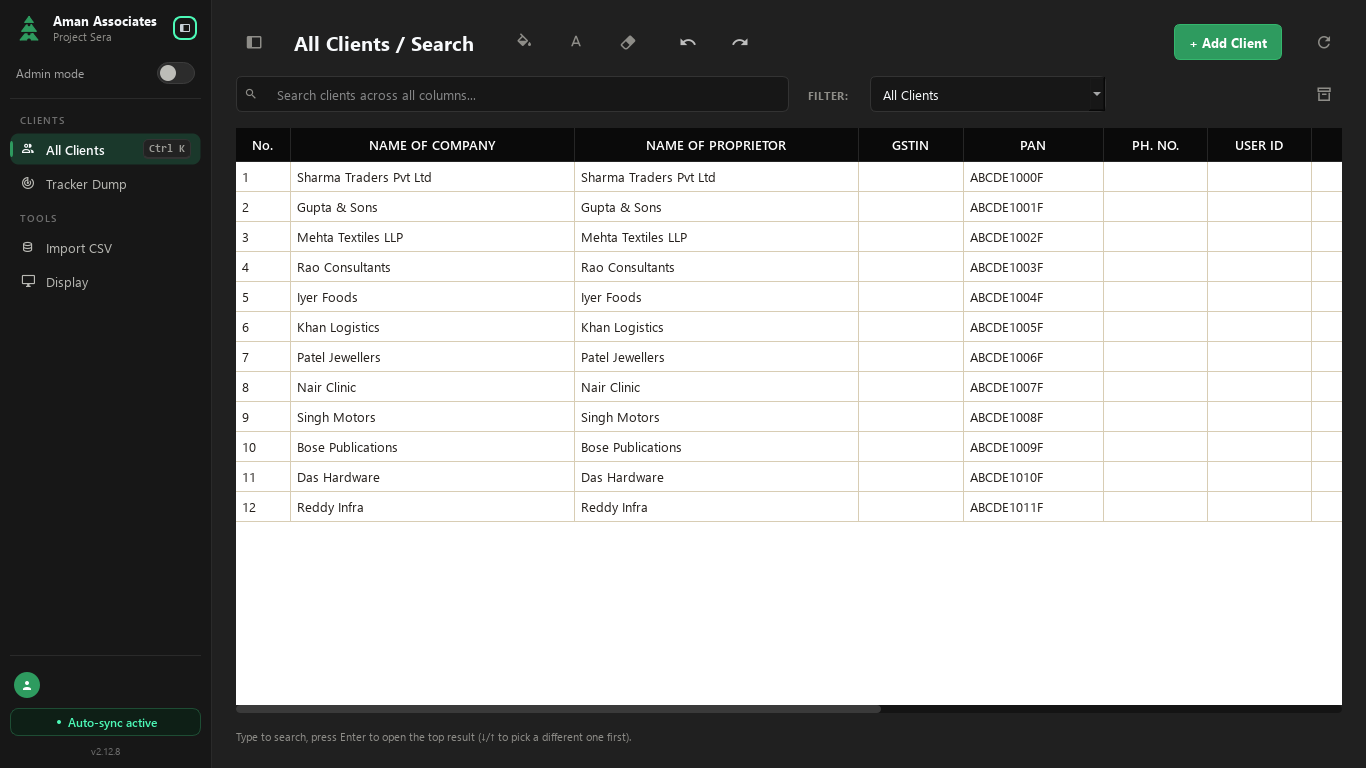
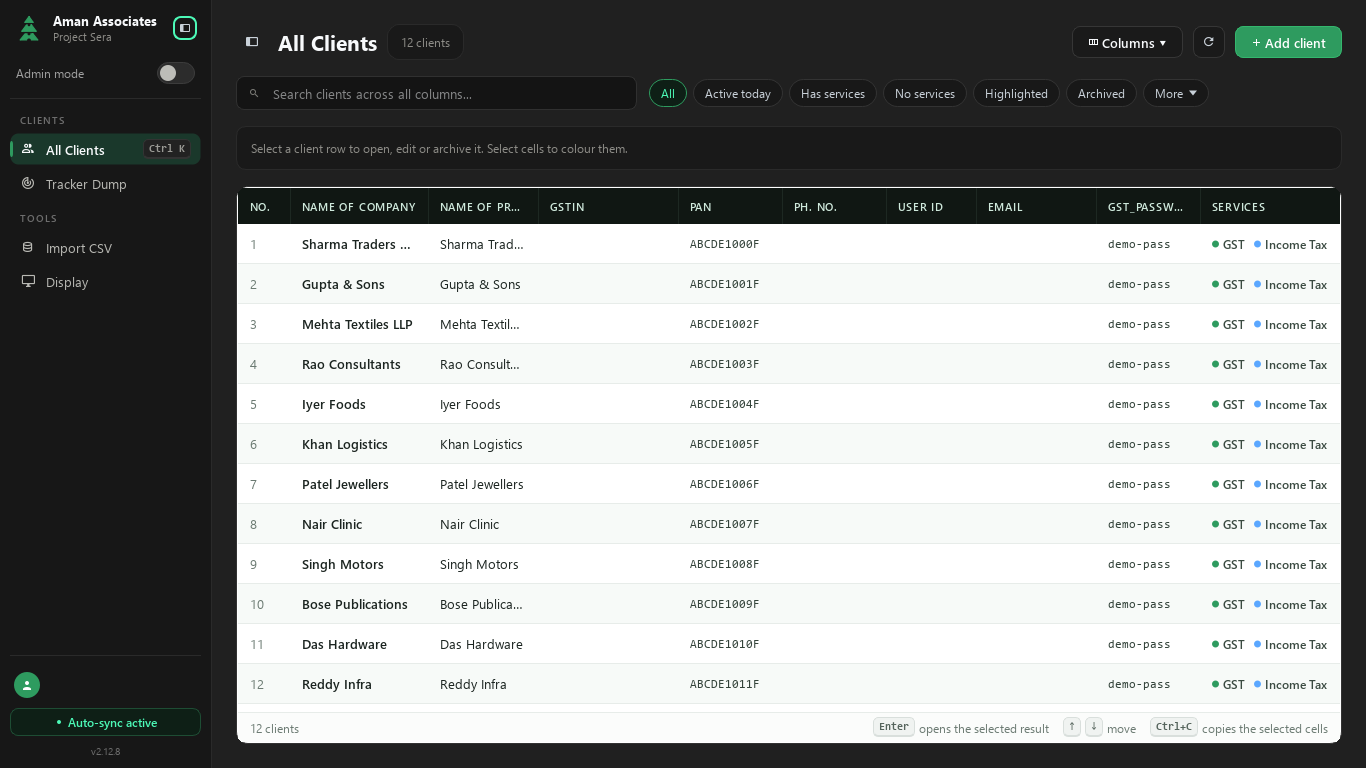
ui-overhaul F-2: fictional screenshots of every screen into Mockups/built
Harness set and shell goldens re-rendered at HEAD, display scale dialog added. Clipped sub-label on the display scale dialog recorded, not fixed.

diff --git a/Mockups/overhaul/ui-overhaul-report.md b/Mockups/overhaul/ui-overhaul-report.md
@@ -1,16 +1,16 @@
-# UI overhaul — report (2026-10-12 01:27)
+# UI overhaul — report (2026-10-12 01:46)
 
 Deadline: 2026-10-12T23:00:00+05:30
 
 | Status | WPs |
 | :--- | ---: |
-| Not started | 3 |
+| Not started | 2 |
 | In progress | 0 |
 | Retry | 0 |
-| Done | 33 |
+| Done | 34 |
 | Blocked | 0 |
 
-Runs: 42   output tokens: 1939647   API-equivalent cost: $150.58
+Runs: 43   output tokens: 1975266   API-equivalent cost: $150.58
 
 | WP | Status | Model | Commit | What | Notes |
 | :--- | :--- | :--- | :--- | :--- | :--- |
@@ -47,7 +47,7 @@ Runs: 42   output tokens: 1939647   API-equivalent cost: $150.58
 | S-13 | Done | sonnet | cd3e59d | Screens: Small dialogs: CSV import (+ summary), Change master password, Office recovery, Rejoin ... | Ten small dialogs on the kit; global QProgressBar theme rule; 16 new tests; known pre-existing failures only; human checks 28-29 |
 | S-14 | Done | haiku | fb1490a | Screens: Remaining not-drawn dialogs by recipe: Container inspector, Create client from capture, ... | S-14 dialogs on the kit; 9 new tests; 137 full-suite failures reproduce on HEAD; handed-off QMessageBox sites in hand-off note |
 | S-R | Done | opus | fbcb288 | Review phase S (screens) | Phase S reviewed: controls all kept; ~125 QMessageBox -> kit.MessageBox (owner Q3); Settings literal QSS dropped; tracker autofill emerald; rules test 76; suite |
-| F-1 | Not started | mechanical |  | Finish: Rewrite docs/Sera_UI.md from the kit docstring and tokens; update Mockups/README.md and ... |  |
+| F-1 | Done | mechanical | 91f3522 | Finish: Rewrite docs/Sera_UI.md from the kit docstring and tokens; update Mockups/README.md and ... | Rewrote docs/Sera_UI.md, updated statuses to built in README and BUILD-PLAN, removed legacy settings_dialog.py |
 | F-2 | Not started | mechanical |  | Finish: Real screenshots of every screen into Mockups/built/ (fictional data). |  |
 | F-R | Not started | opus |  | Review phase F (finish) |  |
 
@@ -122,6 +122,7 @@ Runs: 42   output tokens: 1939647   API-equivalent cost: $150.58
 - **S-R** Phase S review: about 130 QMessageBox prompts (Manage Clients, Settings, Sera Sync, Rejoin, Tracker, main.py...) are still plain Qt message boxes, themed dark by the app stylesheet but not on the kit's dialog frame. S-14 built the kit helper (show_message / ask_confirm) but converted only a few. Converting all of them touches many tests that patch QMessageBox. What should happen? → Convert them all now in S-R (large, risky near the deadline) (asked as Q3)
 - **S-R** Tracker Dump row autofill button: keep main's solid red or follow the mockup? → Emerald kit primary (no colour override); SMTI/MECP icon mint (index.html draws it as ibtn pri (emerald); rule 4 says red means danger only; main's red was a fixed colour, not a per-service one)
 - **S-R** Settings dialog still set a literal hex stylesheet (_apply_global_style) - keep or drop? → Dropped it and its palette constants (Rule 11; offscreen before/after renders of all 12 pages differ only in scrollbar width (app theme now) and the scale combo's 160 px min-width)
+- **F-1** Should settings_dialog.py be removed? → Remove settings_dialog.py and clean up references (Unused legacy tabbed dialog superseded by UnifiedSettingsDialog; verified nothing in live app opens it)
 
 ## Checks waiting for you
 

diff --git a/Mockups/IMPLEMENTATION.md b/Mockups/IMPLEMENTATION.md
@@ -782,3 +782,7 @@ files, tests, decisions taken, what the next WP must know.`
   Tests: `tests/test_ui_overhaul_rules.py` (76 passed), `tests/test_ui_kit.py` (94 passed), `tests/test_ui_tokens.py` (3 passed), `tests/test_ui_lock_manage.py` + `test_ui_manage_clients_kit.py` (60 passed), `test_ui_settings_hub.py` (13 passed), startup and memory tests (14 passed, only the 5 known pre-existing `TestSearchGridReuse` PAN setUp failures).
   Decision recorded: `settings_dialog.py` removed and cleaned up across codebase.
   For F-2: The UI overhaul codebase and design system documentation are complete and frozen; proceed to capturing real application screenshots across all converted screens into `Mockups/built/` with fictional data.
+- **F-2** (2026-10-12, claude-haiku-5-5): Screenshots of every screen, fictional data only (clients like Sharma Traders, PANs ABCDE1000F, demo passwords, DEMO-PC names). Regenerated at HEAD: the flat set (`01_`-`04_`, `settings_*`, `dlg_*`) from `tools/ui_snapshots.py`, and `shell/` (search, admin, tracker_dump at 1366x768, 1024x700, 1366x768 @1.25). Added `dlg_display_scale{,_scale1.25}.png`. The harness and scratch wrappers (not committed) set `QT_QPA_PLATFORM=offscreen` and `QT_QPA_FONTDIR`; the harness sets the font dir only for `--size`. S-package subfolder goldens (search/, settings/, dialogs/, detail/, manage/, tracker/, audit/, sync/, kit/) are not re-rendered. Every mockup screen in `index.html` has a golden; by-IP, Map datapoints and Shadow start prompts are not captured (decided: kit MessageBox).
+  Defect, not fixed (capture only): Display scale dialog clips the "Running at 100 %" sub-label at 100 % and 125 %, and elides the combo text at 125 % (check 32).
+  Tests: `tests/test_ui_overhaul_rules.py` 76 pass; no code changed. Pytest exits 1 at temp-folder cleanup (WinError 5 on `pytest-current`), after the tests pass. The harness exits 139 at `os._exit` after writing PNGs (known, harmless).
+  For F-R: check 33 (real 125 % display); decide whether to re-render the subfolder goldens at HEAD.
